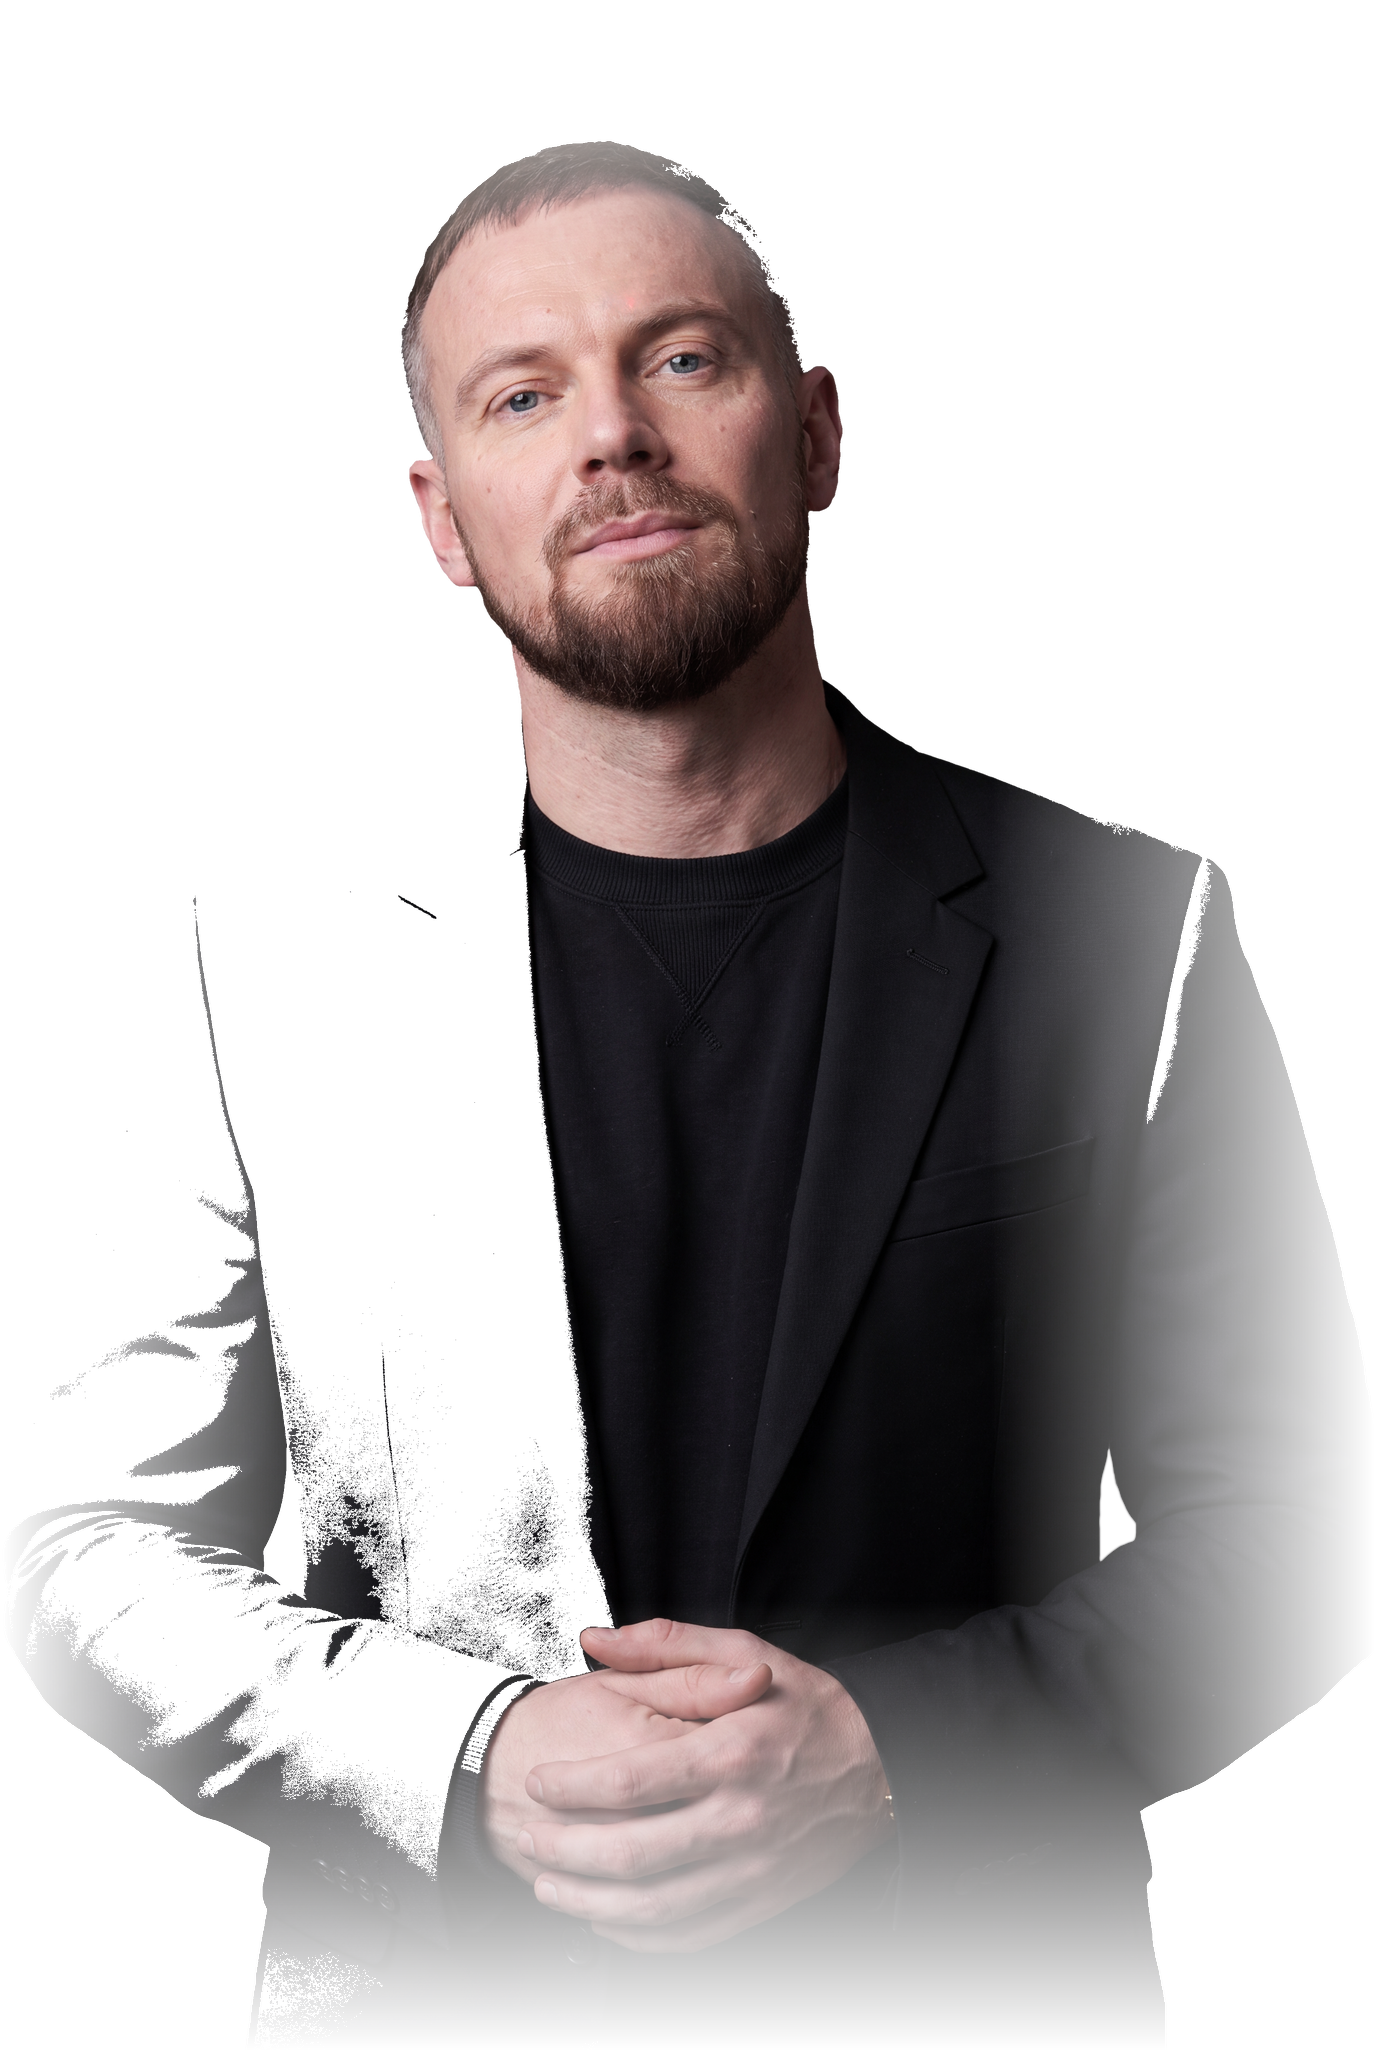
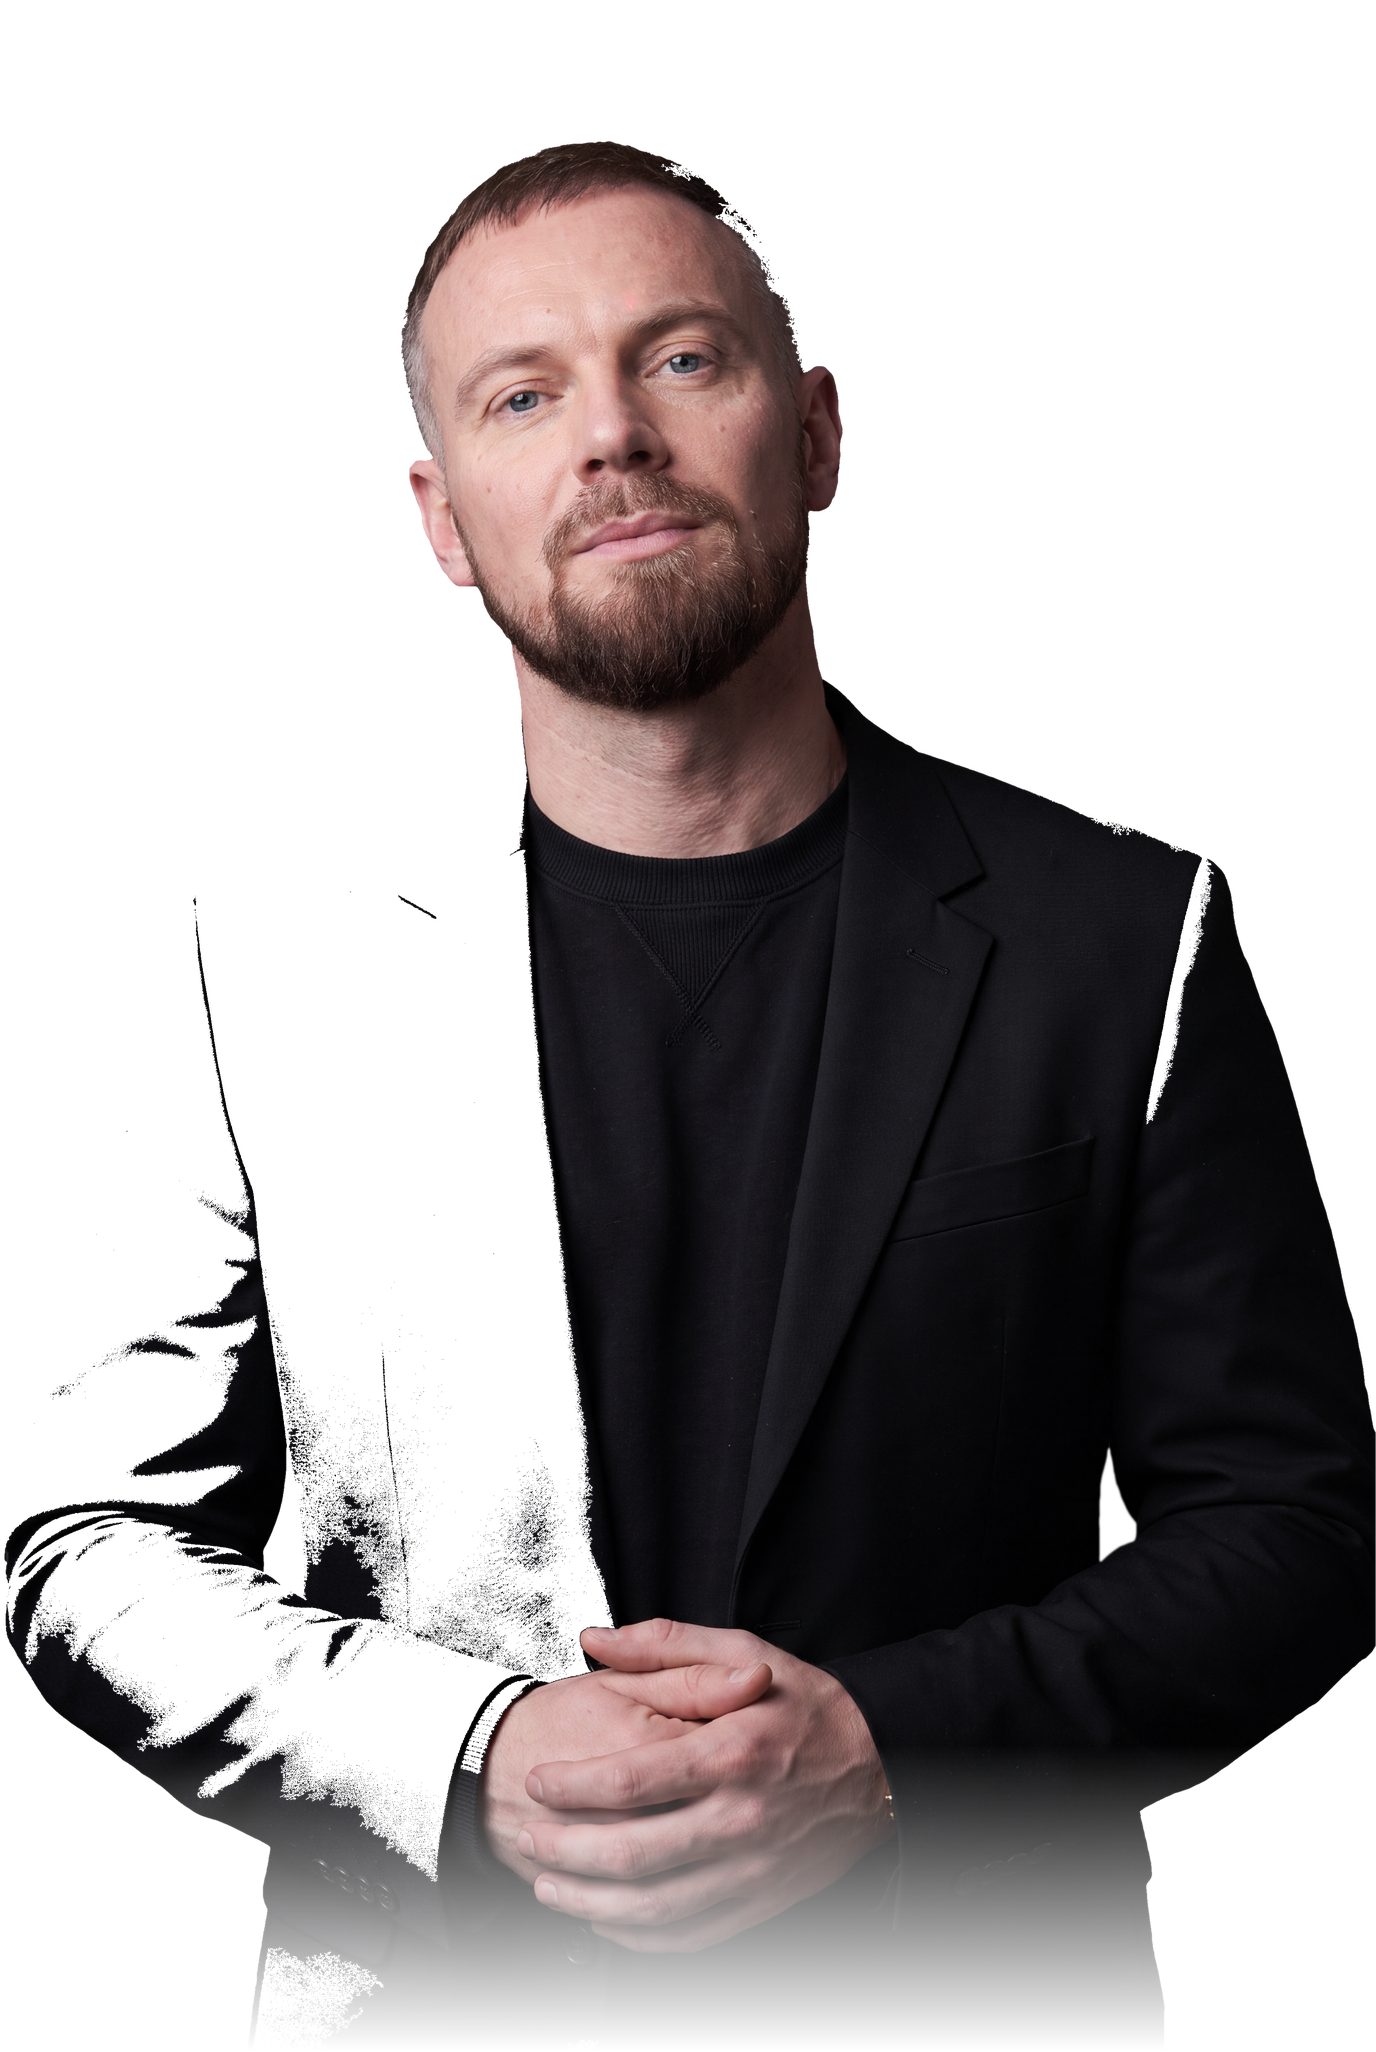
Fix founder portrait transparency by keeping the body fully opaque and only fading the bottom edge

Changed region(s): [[0.0, 0.3743, 1.0, 0.9669], [0.3125, 0.0624, 0.5625, 0.1559]]

diff --git a/index.html b/index.html
@@ -26,7 +26,7 @@
   <link href="https://fonts.googleapis.com/css2?family=Manrope:wght@300;400;500;600;700;800&family=Playfair+Display:ital,wght@0,400;0,500;0,600;0,700;1,400&display=swap" rel="stylesheet">
   
   <!-- Stylesheets -->
-  <link rel="stylesheet" href="assets/css/style.css?v=1.0.8">
+  <link rel="stylesheet" href="assets/css/style.css?v=1.0.9">
 </head>
 <body>
 
@@ -129,7 +129,7 @@
         </div>
 
         <div class="hero__director">
-          <img src="assets/img/directors/robert.png?v=1.0.8" alt="Роберт Дорн" class="hero__director-img">
+          <img src="assets/img/directors/robert.png?v=1.0.9" alt="Роберт Дорн" class="hero__director-img">
           
           <div class="director-card">
             <div class="director-card__avatar">
@@ -633,6 +633,6 @@
     </div>
   </div>
 
-  <script src="assets/js/main.js?v=1.0.8" defer></script>
+  <script src="assets/js/main.js?v=1.0.9" defer></script>
 </body>
 </html>